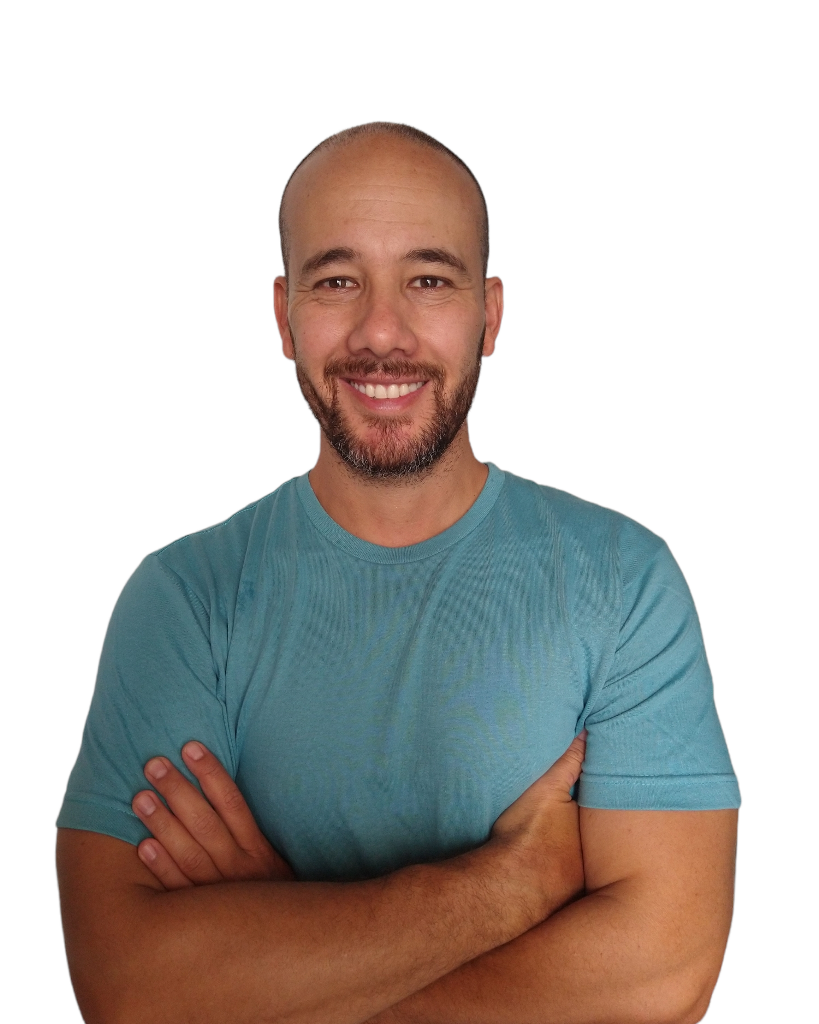
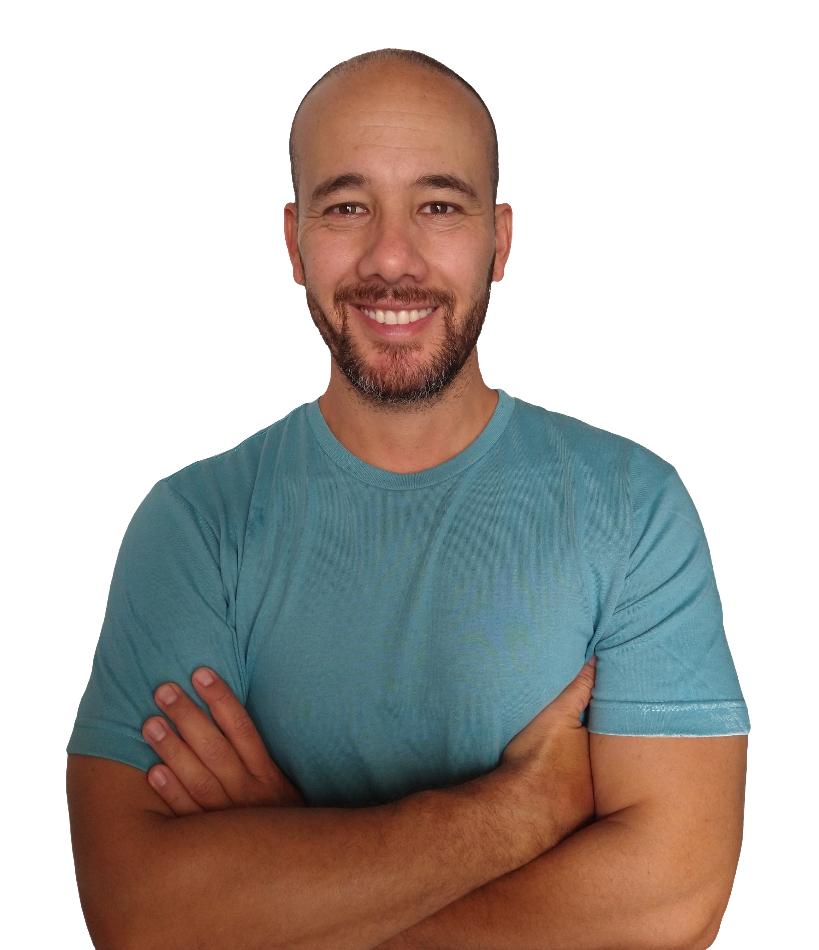
Seccion profesor - Variables de colores

Changed region(s): [[0.0611, 0.0305, 0.9158, 1.0]]

diff --git a/index.html b/index.html
@@ -71,26 +71,32 @@
       
         <section id="profesor" >
             <div class="profesor margen-main">
-                <h2>Ivan Alvarez Cañas <span class="profe">profesor</spanclas></h2>
-                <ul>
-                    <li>Licenciado en educación física y deportes Universidad de Antioquía</li>
-                    <li>Diplomado en actividad física y salud</li>
-                    <li>Diplomado el rol del docente en entornos virtuales </li>
-                    <li>Curso ejercicio y actividad física en enfermedades crónicas no transmisibles</li>
-                    <li>Curso didáctica de la educación física.</li>
-                    <li>Curso de administración deportiva.</li>
-                    <li>Seminario entrenamiento de fuerza para adultos mayores </li>
-                    <li>Seminario deporte, recreación y actividad física.</li>
-                    <li>Seminario de pedagogía y metodología de la  formación deportiva.</li>
-                </ul>
-                <img class="profesor__img" src="./img/deporte.jpeg" alt="profesor">
-                <a href="https://api.whatsapp.com/send?phone=573008131745">
-                    <svg xmlns="http://www.w3.org/2000/svg" class="icon icon-tabler icon-tabler-brand-whatsapp" width="72" height="72" viewBox="0 0 24 24" stroke-width="1.5" stroke="#22333B" fill="none" stroke-linecap="round" stroke-linejoin="round">
-                        <path stroke="none" d="M0 0h24v24H0z" fill="none"/>
-                        <path d="M3 21l1.65 -3.8a9 9 0 1 1 3.4 2.9l-5.05 .9" />
-                        <path d="M9 10a0.5 .5 0 0 0 1 0v-1a0.5 .5 0 0 0 -1 0v1a5 5 0 0 0 5 5h1a0.5 .5 0 0 0 0 -1h-1a0.5 .5 0 0 0 0 1" />
-                    </svg>
-                </a>
+                <img src="./img/ivan-alvarez-cañas.png" alt="profesor">
+                <div class="datos">
+                    <h2>Ivan Alvarez Cañas</h2>
+                    <h3 class="profe">Licenciado en Educación Física y Deportes UdeA</h3>
+                    <ul>
+                        <li>Licenciado en educación física y deportes Universidad de Antioquía</li>
+                        <li>Diplomado en actividad física y salud</li>
+                        <li>Diplomado el rol del docente en entornos virtuales </li>
+                        <li>Curso ejercicio y actividad física en enfermedades crónicas no transmisibles</li>
+                        <li>Curso didáctica de la educación física</li>
+                        <li>Curso de administración deportiva</li>
+                        <li>Seminario entrenamiento de fuerza para adultos mayores </li>
+                        <li>Seminario deporte, recreación y actividad física</li>
+                        <li>Seminario de pedagogía y metodología de la  formación deportiva</li>
+                    </ul>
+                    <button>
+                        <a href="https://api.whatsapp.com/send?phone=573008131745">
+                            WhatsApp
+                            <svg xmlns="http://www.w3.org/2000/svg" class="icon icon-tabler icon-tabler-brand-whatsapp" width="45" height="45" viewBox="0 0 24 24" stroke-width="1.5" stroke="#22333B" fill="none" stroke-linecap="round" stroke-linejoin="round">
+                                <path stroke="none" d="M0 0h24v24H0z" fill="none"/>
+                                <path d="M3 21l1.65 -3.8a9 9 0 1 1 3.4 2.9l-5.05 .9" />
+                                <path d="M9 10a0.5 .5 0 0 0 1 0v-1a0.5 .5 0 0 0 -1 0v1a5 5 0 0 0 5 5h1a0.5 .5 0 0 0 0 -1h-1a0.5 .5 0 0 0 0 1" />
+                            </svg>
+                        </a>
+                    </button>
+                </div>
             </div>
         </section>
 

diff --git a/css/style.css b/css/style.css
@@ -13,6 +13,15 @@ body {
     background: rgb(126,206,202);
     background: linear-gradient(90deg, rgba(126,206,202,0.7) 0%, rgba(199,237,232,1) 40%,  rgba(199,237,232,1) 60%, rgba(126,206,202,0.7) 100%);
 }
+:root{
+    --color-primario-1: #1693A5;
+    --color-primario-2: #45B5C4;
+    --color-primario-3: #7ECECA;
+    --color-primario-4: #C7EDE8;
+    --color-secundario-1: #22333B;
+    --color-secundario-2: #DDE6E8;
+    --color-secundario-3: #F3F6F7;
+}
 /* el selector html y body, hacen que 1 rem sean 10 pixeles */
 /* box-sizing ayuda a que padding no se sume al tamaño de px */
 
@@ -47,10 +56,6 @@ footer{
     background-color: #22333B;
 }
 
-.profe{
-    font-size: 1.8rem;
-}
-
 /* clase para delimitar ancho del contenido responsive */
 .margen-main {
     text-align: center;
@@ -63,17 +68,17 @@ footer{
 }
 @media only screen and (min-width: 701px) and (max-width: 900px) {
     .margen-main {
-        width: 650px;
+        width: 670px;
     }
 }
 @media only screen and (min-width: 901px) and (max-width: 1100px) {
     .margen-main {
-        width: 700px;
+        width: 800px;
     }
 }
 @media only screen and (min-width: 1101px) and (max-width: 1400px) {
     .margen-main {
-        width: 900px;
+        width: 950px;
     }
 }
 @media only screen and (min-width: 1401px) {
@@ -186,29 +191,77 @@ footer{
 }
 
 /* profesor */
-
+#profesor{
+    height: max(calc(100vh - 90px),500px);
+    display: flex;
+    align-items: center;
+}
 .profesor{
+    border-radius: 30px;
+    background-color: var(--color-primario-4);
+    text-align: left;
+    
     display: grid;
-    grid-template-columns: repeat(2, 1fr);
-    grid-template-rows: repeat(3, 1fr);
-    column-gap: 0.5rem;
+    grid-template-columns: 0.9fr 1.1fr;
+    grid-template-rows: 1fr;
 }
-
-.profesor h2{
-    grid-column: 2/3;
-}
-.profesor ul{
-    grid-column: 2/2;
-}
-
-.profesor a{
-    grid-column: 2/2;
-
-}
-
 .profesor img{
-    grid-row: 2/3;
-    width: 30rem;
+    width: 100%;
+    align-self: end;
+}
+.profesor .datos{
+    padding: 7%;
+}
+.profesor h2{
+    font-size: 4em;
+    font-family: 'Tofino-Bold';
+}
+.profesor h3{
+    font-size: 1.8em;
+    font-family: 'Tofino-Bold';
+    margin-bottom: 2rem;
+}
+.profesor li{
+    font-size: 1.8em;
+}
+.profesor button{
+    height: 50px;
+    display: flex;
+    align-items: center;
+    border-radius: 50px;
+    background-color: #FFFFFF;
+    border-color: var(--color-secundario-2);
+    border-width: 3px;
+    border-style: solid;
+}
+.profesor a{
+    color: var(--color-secundario-1);
+    font-size: 2em;
+}
+@media only screen and (max-width: 1100px) {
+    .profesor li{
+        font-size: 1.5em;
+    }
+}
+@media only screen and (max-width: 900px) {
+    .profesor {
+        display: block;
+        position: relative;
+    }
+    .profesor img{
+        shape-outside: circle(50%) content-box  ;
+        width: 200px;
+        float: right;
+        margin-right: 30px;
+        margin-top: 230px;
+        background-color: white;
+        border-radius: 50%;
+    }
+}
+@media only screen and (max-width: 700px) {
+    .profesor img{
+        width: 130px;
+    }
 }
 
 
